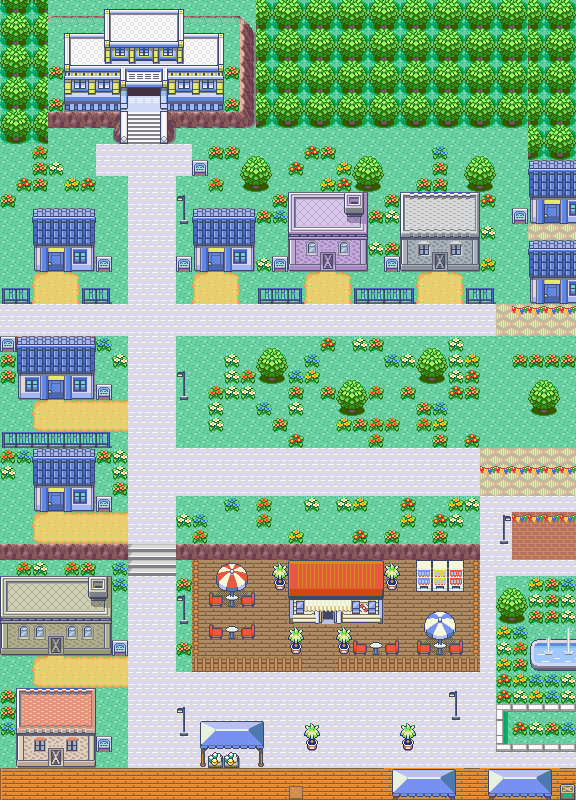
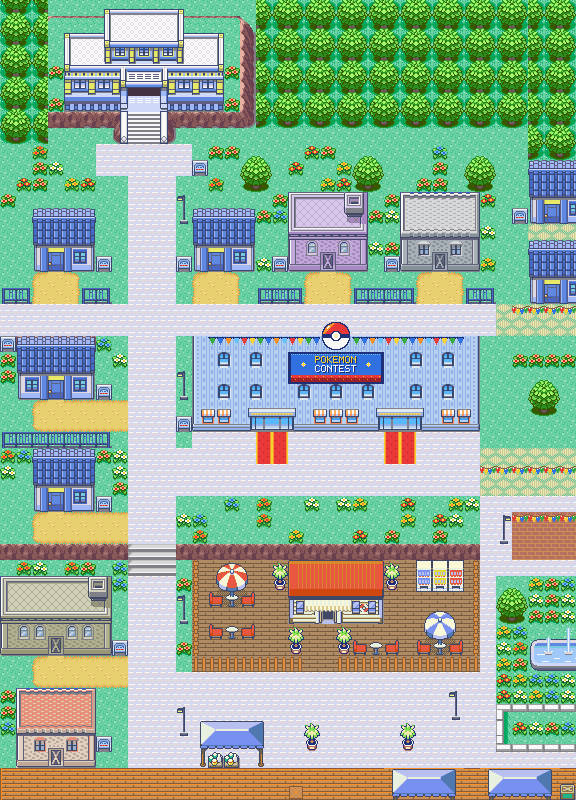
Shopping mall: stretched Dept. Store facade with two double doors, red carpets, contest screen, Poke Ball and pennants
Claude-Session: https://claude.ai/code/session_015nAeBdQj1XXGE9TrWVaT6H

Changed region(s): [[0.3125, 0.4062, 0.8438, 0.5938]]

diff --git a/dev_scripts/lilycove_redesign/mall_art.py b/dev_scripts/lilycove_redesign/mall_art.py
@@ -1,0 +1,87 @@
+"""Decorations for the new Lilycove shopping mall, drawn in Emerald style with the
+festival palette 6: the big contest screen (telão), the Poké Ball on the roof and the
+string of pennants. They are top layers over the mall wall (see build_city_tileset)."""
+_, WH, CR, YE, OR, RE, DR, BR, LB, BL, NV, LG, GR, DG, BN, DB = range(16)
+
+def canvas(w, h): return [[0] * w for _ in range(h)]
+
+FONT = {   # 5x7
+    'P': ["1111.", "1...1", "1...1", "1111.", "1....", "1....", "1...."],
+    'O': [".111.", "1...1", "1...1", "1...1", "1...1", "1...1", ".111."],
+    'K': ["1...1", "1..1.", "1.1..", "11...", "1.1..", "1..1.", "1...1"],
+    'E': ["11111", "1....", "1....", "1111.", "1....", "1....", "11111"],
+    'M': ["1...1", "11.11", "1.1.1", "1.1.1", "1...1", "1...1", "1...1"],
+    'N': ["1...1", "11..1", "1.1.1", "1..11", "1...1", "1...1", "1...1"],
+    'C': [".111.", "1...1", "1....", "1....", "1....", "1...1", ".111."],
+    'T': ["11111", "..1..", "..1..", "..1..", "..1..", "..1..", "..1.."],
+    'S': [".1111", "1....", "1....", ".111.", "....1", "....1", "1111."],
+}
+def text(c, s, x0, y0, col, shadow=None):
+    x = x0
+    for ch in s:
+        g = FONT[ch]
+        for y in range(7):
+            for i in range(5):
+                if g[y][i] == '1':
+                    if shadow is not None: c[y0 + y + 1][x + i + 1] = shadow
+        for y in range(7):
+            for i in range(5):
+                if g[y][i] == '1': c[y0 + y][x + i] = col
+        x += 6
+
+def star(c, cx, cy, col):
+    for d in range(-2, 3):
+        c[cy][cx + d] = col; c[cy + d][cx] = col
+    c[cy - 1][cx - 1] = c[cy - 1][cx + 1] = c[cy + 1][cx - 1] = c[cy + 1][cx + 1] = WH
+
+def screen():
+    """96x32 LED screen showing the contest (frame, stage lights, title, stage)"""
+    w, h = 96, 32; c = canvas(w, h)
+    for y in range(h):
+        for x in range(w):
+            if x < 3 or x >= w - 3 or y < 2 or y >= h - 2:
+                c[y][x] = NV                                   # frame
+            else:
+                c[y][x] = BL
+                if y >= 23: c[y][x] = DR if y >= 26 else RE                    # stage
+    for x in range(3, w - 3):                                                  # stage lights (8 px period)
+        if x % 8 == 3: c[24][x] = YE
+        if x % 8 == 7: c[27][x] = OR
+    for x in range(3, w - 3): c[2][x] = LB if x % 2 else BL                     # glass highlight
+    text(c, 'POKEMON', 27, 4, YE, NV)
+    text(c, 'CONTEST', 27, 13, WH, NV)
+    star(c, 15, 12, YE); star(c, 80, 12, YE)
+    for x in (44, 52): c[h - 1][x] = NV; c[h - 1][x + 1] = NV                  # mounts
+    return c
+
+def pokeball():
+    """32x32 Poké Ball sign standing on the roof edge"""
+    c = canvas(32, 32); cx, cy, r = 15.5, 15.5, 14.5
+    for y in range(32):
+        for x in range(32):
+            d = ((x - cx) ** 2 + (y - cy) ** 2) ** .5
+            if d <= r:
+                if d > r - 1.3: c[y][x] = NV
+                elif abs(y - cy) <= 1.5: c[y][x] = NV
+                elif y < cy: c[y][x] = RE if (x - cx) + (y - cy) > -14 else OR
+                else: c[y][x] = WH if (x - cx) - (y - cy) < 12 else CR
+    for y in range(32):
+        for x in range(32):
+            d = ((x - cx) ** 2 + (y - cy) ** 2) ** .5
+            if d <= 5.5: c[y][x] = NV if d > 4 else (WH if d > 2.5 else CR)
+    for (x, y) in ((8, 6), (9, 6), (7, 7), (8, 7), (7, 8)): c[y][x] = WH       # shine
+    return c
+
+PENNANT_COLS = [(RE, YE), (GR, BL), (OR, LB)]
+def pennants(k):
+    """16x16 string of two triangular flags (variant k = colours), hanging from the roof"""
+    c = canvas(16, 16)
+    for x in range(16): c[1][x] = NV
+    for i, col in enumerate(PENNANT_COLS[k % 3]):
+        x0 = 1 + i * 8
+        for y in range(2, 9):
+            half = (8 - y) * 3 // 6
+            for x in range(x0 + 3 - half - 0, x0 + 3 + half + 1):
+                if 0 <= x < 16: c[y][x] = col
+        c[2][x0] = c[2][x0 + 6] = NV
+    return c

diff --git a/dev_scripts/lilycove_redesign/layout.py b/dev_scripts/lilycove_redesign/layout.py
@@ -217,8 +217,34 @@ garden(-16,27,-8,28,25); garden(-9,28,-8,32,26)
 art('house_grey_coral',-15,35); house_sign(-10,38)                               # H1 modern grey, door (-13,39) onto the boardwalk
 garden(-16,35,-15,40,27); garden(-10,35,-8,38,28); fence(-10,-8,39) if False else None
 # --- east of the street: the old L lot becomes a small neighbourhood garden
-garden(-5,13,14,20,31,skip={(x,y) for x in range(-5,-3) for y in range(13,20)})
-for (tx,ty) in ((0,13),(5,15),(10,13)): tree1(tx,ty)
+# --- the shopping mall (Lilycove Dept. Store) fills the block between the north street and the avenue.
+# Built from the original Dept. Store pieces, stretched: blue facade with windows, shop windows with
+# awnings (vitrines), two double glass doors; plus the contest screen, the Poké Ball and pennants.
+def mall(x0,y0,W=18):
+    O=lambda ox,oy: norm(o(ox,oy))
+    wallL,wall,wallR=O(23,1),O(24,1),O(31,1)
+    for y in range(y0,y0+4):
+        put(x0,y,wallL); put(x0+W-1,y,wallR)
+        for x in range(x0+1,x0+W-1): put(x,y,wall)
+    for (y,xs) in ((y0+1,(1,3,13,15)),(y0+3,(1,3,6,8,10,13,15))):       # windows (pairs)
+        for wx in xs: put(x0+wx,y,O(24,0)); put(x0+wx+1,y,O(25,0))
+    COL={'2fe':23,'2fc':24,'30f':25,'303':26,'304':27,'305':28,'30e':29,'2ff':31}
+    BOT={'2fe':23,'2fc':24,'30f':25,'303':26,'304':27,'305':28,'30e':29,'2ff':31}
+    seq=['2fe','2fc','30f','303','304','304','305','30e','2fc','2fc','30f','303','304','304','305','30e','2fc','2ff']
+    for i,k in enumerate(seq):
+        put(x0+i,y0+4,O(COL[k],5)); put(x0+i,y0+5,O(BOT[k],6))         # awnings / vitrines and doors
+    WALL='top:301'
+    art('mall_screen',x0+6,y0+1,bottom=WALL)                             # the big contest screen (telão)
+    art('mall_pokeball',x0+8,y0-1,bottom='paving',walk_rows=1)           # Poké Ball on the roof edge...
+    for (dx,dy) in ((0,1),(1,1)): put(x0+8+dx,y0+dy-1+0,('ART',('mall_pokeball',dx,dy,None,WALL),1,0))   # ...over the wall
+    for x in range(x0+1,x0+W-1):                                         # pennants strung from the ball
+        if x not in (x0+8,x0+9): art('pennants%d'%((x-x0)%3),x,y0,bottom=WALL)
+fill(-5,13,14,20,GRASS)
+mall(-4,13)                                                              # doors (0,18) (1,18) and (8,18) (9,18)
+paving(-4,19,14,20)                                                      # sidewalk in front of the mall
+for x in (0,1,8,9):                                                      # red carpets at the two double doors
+    for y in (19,20): put(x,y,T(F['carpet']))
+sign(-5,18)                                                              # Dept. Store sign
 garden(-5,23,14,26,32)                                                       # upper level, above the step
 ledge(-5,14,26)                                                             # the step continues east of the street
 # --- seaside café (replaces the Pokémon Center and the harbor building) on the lower level

diff --git a/dev_scripts/lilycove_redesign/build_city_tileset.py b/dev_scripts/lilycove_redesign/build_city_tileset.py
@@ -24,7 +24,7 @@ SHARED_LAYOUTS = (('Route121', 80, 66),)
 # also render across the Route 121 seam. Built from a pristine copy in base_tileset/general.
 PRIM = os.path.join(REPO, 'data/tilesets/primary/general')
 PRIM_BASE = os.path.join(HERE, 'base_tileset/general')
-PRIMARY_ART = {'paving', 'lamp_modern', 'lamp_modern_l', 'bunting'} | set(port_art.FLOWER_NAMES)
+PRIMARY_ART = {'paving', 'lamp_modern', 'lamp_modern_l', 'bunting', 'mall_pokeball'} | set(port_art.FLOWER_NAMES)
 PRIMARY_BOTTOMS = {'grass', 'paving'}
 # General metatiles no General-tileset map uses and no metatile label names (checked over all layouts)
 PRIMARY_META_POOL = [0x1ea, 0x1eb, 0x1f8, 0x1f9, 0x1fa, 0x1fb, 0x183, 0x187, 0x18b, 0x18c, 0x199, 0x1a2,
@@ -133,6 +133,8 @@ def build(M, festival_ids):
         for q in _split16(canvases[name], mx, my):
             t = add_ptile(q) if prim else add_tile(q)
             top.append(t | (pal << 12) if t else 0)
+        if isinstance(bottom, str) and bottom.startswith('top:'):     # another metatile's top layer as the floor
+            BOTTOM[bottom] = metas[int(bottom[4:], 16) - 512][4:]
         entries = top + [0] * 4 if name in port_art.FLOOR else BOTTOM[bottom] + top
         if name in port_art.FLOOR: BOTTOM[name] = top
         if prim and (name in port_art.FLOOR or bottom in PRIMARY_BOTTOMS):

diff --git a/dev_scripts/lilycove_redesign/port_art.py b/dev_scripts/lilycove_redesign/port_art.py
@@ -188,3 +188,9 @@ def _wood_fence_v(cx):
     return c
 for _n, _cx in (('fence_wood_vl', 4), ('fence_wood_vr', 12)):   # left / right side of an enclosure
     _CANVAS[_n] = _wood_fence_v(_cx); PAL_OF[_n] = 6; ART[_n] = (lambda n=_n: _CANVAS[n])
+
+# ---- shopping mall decorations (palette 6, top layers over the mall wall) ----
+import mall_art as _M
+for _n, _mk in (('mall_screen', _M.screen), ('mall_pokeball', _M.pokeball),
+                ('pennants0', lambda: _M.pennants(0)), ('pennants1', lambda: _M.pennants(1)), ('pennants2', lambda: _M.pennants(2))):
+    _CANVAS[_n] = _mk(); PAL_OF[_n] = 6; ART[_n] = (lambda n=_n: _CANVAS[n])

diff --git a/docs/lilycove/README.md b/docs/lilycove/README.md
@@ -119,6 +119,17 @@ gerado por `build_city_tileset.py`. Ele mantém os ids de metatile que a cidade 
 (as animações de porta continuam funcionando) e reaproveita o espaço que só servia à
 Rota 121 e ao Safari. Tiles iguais ou espelhados são reaproveitados (espaço livre: ver abaixo).
 
+## Shopping (Loja de Departamentos)
+Ocupa o quarteirão inteiro entre a rua norte e a avenida, acima do café.
+* Fachada montada com as **peças originais da Loja de Departamentos de Lilycove**, alongada
+  para 18 tiles: parede azul com janelas, **vitrines com toldo** e **duas portas duplas de
+  vidro** (cada folha é uma porta animada) com marquise e **tapete vermelho**.
+* Decoração desenhada no estilo do jogo (paleta do festival): **telão "POKEMON CONTEST"**
+  com luzes de palco, **Pokébola** no topo e **bandeirolas** coloridas presas a ela.
+* As 4 folhas levam à loja; a saída da direita volta pela porta da direita. Placa da loja
+  na calçada. O prédio antigo (bairro norte) ficou com a porta trancada até ser redesenhado.
+* Espaço: a Pokébola foi para o tileset primário; sobram ~3 tiles na cidade e 4 no primário.
+
 ## Café Litoral (bairro 1, beira do calçadão)
 Substitui o Centro Pokémon e o prédio do Porto. Montado com peças do próprio Emerald:
 * **Café**: a floricultura da Rota 104 (telhado laranja levemente escurecido, toldo
